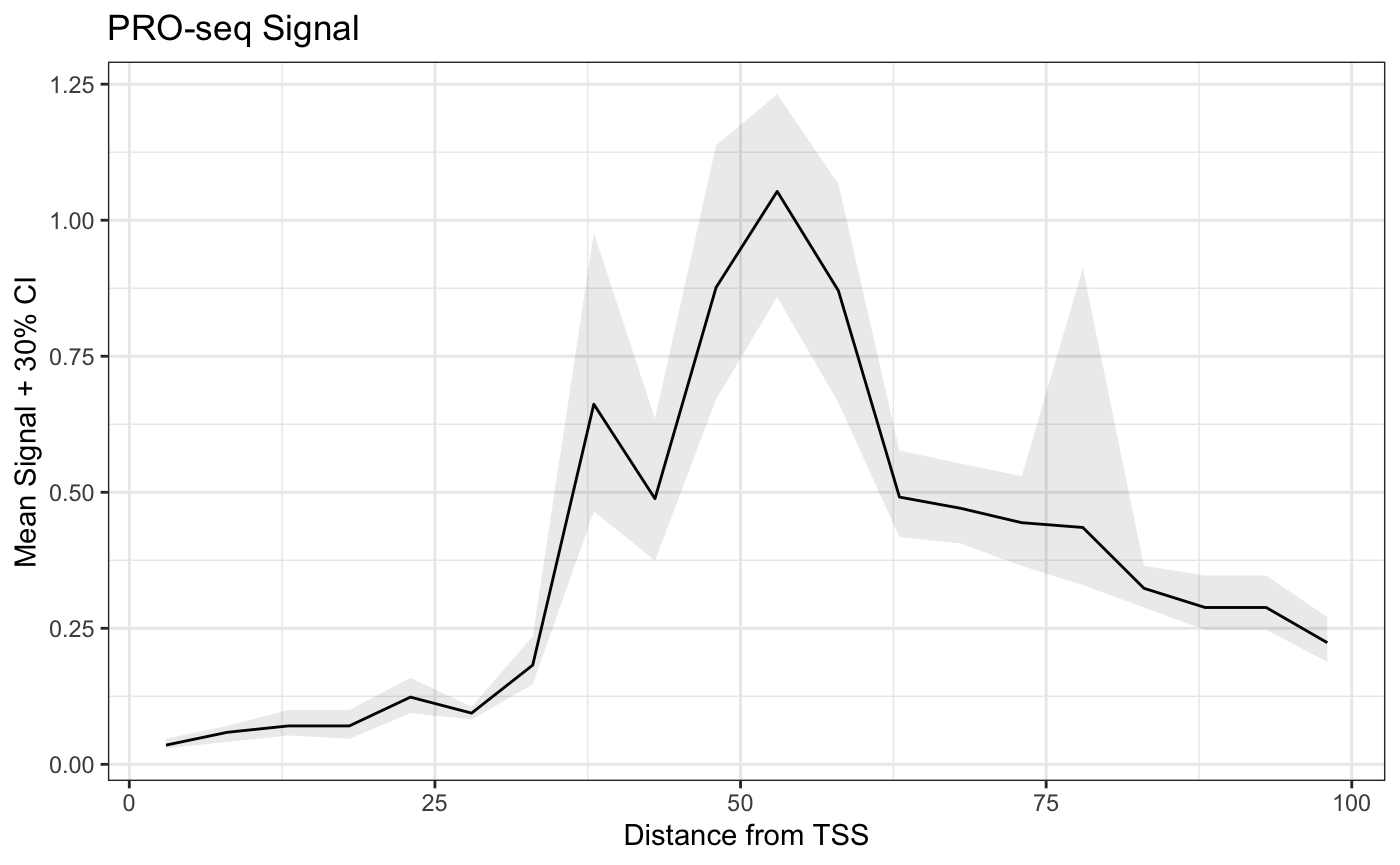
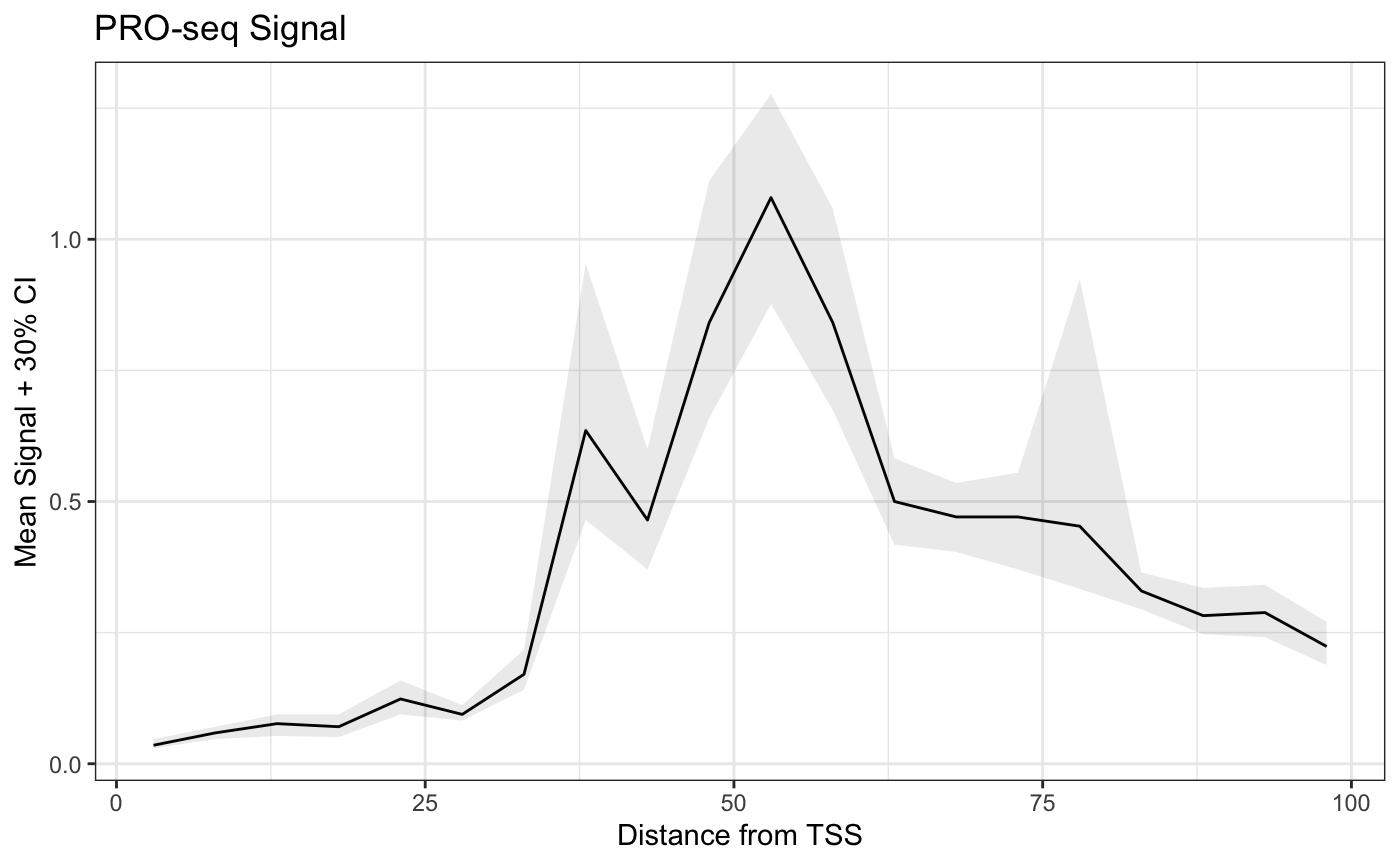
v0.99.23

diff --git a/reference/binNdimensions.html b/reference/binNdimensions.html
@@ -70,7 +70,7 @@ summarize the datapoints that fall into any of these n-dimensional bins." />
       </button>
       <span class="navbar-brand">
         <a class="navbar-link" href="../index.html">BRGenomics</a>
-        <span class="version label label-default" data-toggle="tooltip" data-placement="bottom" title="Released version">0.99.22</span>
+        <span class="version label label-default" data-toggle="tooltip" data-placement="bottom" title="Released version">0.99.23</span>
       </span>
     </div>
 
@@ -126,7 +126,12 @@ summarize the datapoints that fall into any of these n-dimensional bins." />
 summarize the datapoints that fall into any of these n-dimensional bins.</p>
     </div>
 
-    <pre class="usage"><span class='fu'>binNdimensions</span>(<span class='no'>dims.df</span>, <span class='kw'>nbins</span> <span class='kw'>=</span> <span class='fl'>10</span>, <span class='kw'>ncores</span> <span class='kw'>=</span> <span class='fu'>detectCores</span>())
+    <pre class="usage"><span class='fu'>binNdimensions</span>(
+  <span class='no'>dims.df</span>,
+  <span class='kw'>nbins</span> <span class='kw'>=</span> <span class='fl'>10</span>,
+  <span class='kw'>use_bin_numbers</span> <span class='kw'>=</span> <span class='fl'>TRUE</span>,
+  <span class='kw'>ncores</span> <span class='kw'>=</span> <span class='fu'>detectCores</span>()
+)
 
 <span class='fu'>aggregateByNdimensionalBins</span>(
   <span class='no'>x</span>,
@@ -137,10 +142,16 @@ summarize the datapoints that fall into any of these n-dimensional bins.</p>
   <span class='kw'>ignore.na</span> <span class='kw'>=</span> <span class='fl'>TRUE</span>,
   <span class='kw'>drop</span> <span class='kw'>=</span> <span class='fl'>FALSE</span>,
   <span class='kw'>empty</span> <span class='kw'>=</span> <span class='fl'>NA</span>,
+  <span class='kw'>use_bin_numbers</span> <span class='kw'>=</span> <span class='fl'>TRUE</span>,
   <span class='kw'>ncores</span> <span class='kw'>=</span> <span class='fu'>detectCores</span>()
 )
 
-<span class='fu'>densityInNdimensionalBins</span>(<span class='no'>dims.df</span>, <span class='kw'>nbins</span> <span class='kw'>=</span> <span class='fl'>10</span>, <span class='kw'>ncores</span> <span class='kw'>=</span> <span class='fu'>detectCores</span>())</pre>
+<span class='fu'>densityInNdimensionalBins</span>(
+  <span class='no'>dims.df</span>,
+  <span class='kw'>nbins</span> <span class='kw'>=</span> <span class='fl'>10</span>,
+  <span class='kw'>use_bin_numbers</span> <span class='kw'>=</span> <span class='fl'>TRUE</span>,
+  <span class='kw'>ncores</span> <span class='kw'>=</span> <span class='fu'>detectCores</span>()
+)</pre>
 
     <h2 class="hasAnchor" id="arguments"><a class="anchor" href="#arguments"></a>Arguments</h2>
     <table class="ref-arguments">
@@ -155,6 +166,14 @@ for which bins will be generated.</p></td>
       <td><p>Either a number giving the number of bins to use for all
 dimensions (default = 10), or a vector containing the number of bins to use
 for each dimension of input data given.</p></td>
+    </tr>
+    <tr>
+      <th>use_bin_numbers</th>
+      <td><p>A logical indicating if ordinal bin numbers should be
+returned (<code>TRUE</code>), or if in place of the bin number, the center value
+of that bin should be returned. For instance, if the first bin encompasses
+data from 0 to 4, with <code>use_bin_numbers = TRUE</code>, a 1 is returned, but
+when <code>FALSE</code>, 2 is returned.</p></td>
     </tr>
     <tr>
       <th>ncores</th>
@@ -253,7 +272,7 @@ if <code>FUN = sum</code>), the empty value should be <code>0</code>.</p></td>
 #&gt; 3             1             1              1
 #&gt; 4             1             1              3
 #&gt; 5             1             1              1
-#&gt; 6             5             3              3</div><div class='input'>
+#&gt; 6             5             4              3</div><div class='input'>
 <span class='co'>#--------------------------------------------------#</span>
 <span class='co'># get number of genes in each bin</span>
 <span class='co'>#--------------------------------------------------#</span>
@@ -262,7 +281,7 @@ if <code>FUN = sum</code>), the empty value should be <code>0</code>.</p></td>
                                         <span class='kw'>ncores</span> <span class='kw'>=</span> <span class='fl'>1</span>)
 
 <span class='no'>bin_counts</span>[<span class='fl'>1</span>:<span class='fl'>6</span>, ]</div><div class='output co'>#&gt;   bin.counts_pr bin.counts_gb bin.counts_cps value
-#&gt; 1             1             1              1   131
+#&gt; 1             1             1              1   128
 #&gt; 2             2             1              1     2
 #&gt; 3             3             1              1     0
 #&gt; 4             4             1              1     0
@@ -276,16 +295,16 @@ if <code>FUN = sum</code>), the empty value should be <code>0</code>.</p></td>
                                          <span class='kw'>nbins</span> <span class='kw'>=</span> <span class='fl'>20</span>, <span class='kw'>ncores</span> <span class='kw'>=</span> <span class='fl'>1</span>)
 
 <span class='no'>bin2d_cps</span>[<span class='fl'>1</span>:<span class='fl'>6</span>, ]</div><div class='output co'>#&gt;   bin.counts_pr bin.counts_gb    value
-#&gt; 1             1             1 27.72258
+#&gt; 1             1             1 27.70395
 #&gt; 2             2             1  0.00000
 #&gt; 3             3             1       NA
 #&gt; 4             4             1       NA
 #&gt; 5             5             1       NA
 #&gt; 6             9             1       NA</div><div class='input'>
 <span class='fu'><a href='https://rdrr.io/r/base/subset.html'>subset</a></span>(<span class='no'>bin2d_cps</span>, <span class='fu'><a href='https://rdrr.io/r/base/is.finite.html'>is.finite</a></span>(<span class='no'>value</span>))[<span class='fl'>1</span>:<span class='fl'>6</span>, ]</div><div class='output co'>#&gt;    bin.counts_pr bin.counts_gb    value
-#&gt; 1              1             1 27.72258
+#&gt; 1              1             1 27.70395
 #&gt; 2              2             1  0.00000
-#&gt; 9              1             2 68.82609
+#&gt; 9              1             2 64.19231
 #&gt; 10             2             2 89.85714
 #&gt; 11             3             2 38.50000
 #&gt; 14             9             2 79.00000</div><div class='input'>
@@ -306,7 +325,7 @@ if <code>FUN = sum</code>), the empty value should be <code>0</code>.</p></td>
 <span class='fu'><a href='https://rdrr.io/r/base/subset.html'>subset</a></span>(<span class='no'>bin2d_cps_med</span>, <span class='fu'><a href='https://rdrr.io/r/base/is.finite.html'>is.finite</a></span>(<span class='no'>value</span>))[<span class='fl'>1</span>:<span class='fl'>6</span>, ]</div><div class='output co'>#&gt;    bin.counts_pr bin.counts_gb value
 #&gt; 1              1             1   3.0
 #&gt; 2              2             1   0.0
-#&gt; 9              1             2  69.0
+#&gt; 9              1             2  67.5
 #&gt; 10             2             2  60.0
 #&gt; 11             3             2  38.5
 #&gt; 14             9             2  79.0</div></pre>

diff --git a/articles/BRGenomicsOverview.html b/articles/BRGenomicsOverview.html
@@ -31,7 +31,7 @@
       </button>
       <span class="navbar-brand">
         <a class="navbar-link" href="../index.html">BRGenomics</a>
-        <span class="version label label-default" data-toggle="tooltip" data-placement="bottom" title="Released version">0.99.22</span>
+        <span class="version label label-default" data-toggle="tooltip" data-placement="bottom" title="Released version">0.99.23</span>
       </span>
     </div>
 
@@ -1073,11 +1073,11 @@
 <a class="sourceLine" id="cb132-3" data-line-number="3"><span class="kw"><a href="https://rdrr.io/r/utils/head.html">head</a></span>(bootmeans.df)</a></code></pre></div>
 <pre><code>##    x       mean      lower      upper sample.name
 ## 1  3 0.03529412 0.02941176 0.04705882      PROseq
-## 2  8 0.05882353 0.04117647 0.07058824      PROseq
-## 3 13 0.07058824 0.05294118 0.10000000      PROseq
-## 4 18 0.07058824 0.04705882 0.10000000      PROseq
+## 2  8 0.05882353 0.04705882 0.07058824      PROseq
+## 3 13 0.07647059 0.05294118 0.09411765      PROseq
+## 4 18 0.07058824 0.05088235 0.09411765      PROseq
 ## 5 23 0.12352941 0.09411765 0.15882353      PROseq
-## 6 28 0.09411765 0.08235294 0.10588235      PROseq</code></pre>
+## 6 28 0.09411765 0.08235294 0.11176471      PROseq</code></pre>
 <p>A dataframe is returned for plotting, and notice how the x-values have been automatically adjusted to be the center of the bins.</p>
 <p>Below, we show how to plot the confidence bands using base R plotting, as well as <code>ggplot2</code>.</p>
 <div class="sourceCode" id="cb134"><pre class="sourceCode r"><code class="sourceCode r"><a class="sourceLine" id="cb134-1" data-line-number="1"><span class="kw"><a href="https://rdrr.io/r/graphics/plot.html">plot</a></span>(mean <span class="op">~</span><span class="st"> </span>x, <span class="dt">data =</span> bootmeans.df, <span class="dt">type =</span> <span class="st">"l"</span>, </a>
@@ -1115,7 +1115,7 @@
 ## 3 13 0.01764706 0.011764706 0.02352941         ps1
 ## 4 18 0.04117647 0.023529412 0.04705882         ps1
 ## 5 23 0.02941176 0.017647059 0.04705882         ps1
-## 6 28 0.02941176 0.023529412 0.03529412         ps1</code></pre>
+## 6 28 0.02941176 0.023529412 0.04117647         ps1</code></pre>
 <div class="sourceCode" id="cb138"><pre class="sourceCode r"><code class="sourceCode r"><a class="sourceLine" id="cb138-1" data-line-number="1"><span class="kw"><a href="https://rdrr.io/r/base/library.html">require</a></span>(ggplot2)</a>
 <a class="sourceLine" id="cb138-2" data-line-number="2"><span class="kw"><a href="https://ggplot2.tidyverse.org/reference/ggplot.html">ggplot</a></span>(bm_list.df, <span class="kw"><a href="https://ggplot2.tidyverse.org/reference/aes.html">aes</a></span>(x, mean, <span class="dt">color =</span> sample.name)) <span class="op">+</span><span class="st"> </span></a>
 <a class="sourceLine" id="cb138-3" data-line-number="3"><span class="st">  </span><span class="kw"><a href="https://ggplot2.tidyverse.org/reference/geom_path.html">geom_line</a></span>() <span class="op">+</span><span class="st"> </span></a>
@@ -1704,7 +1704,7 @@
 ## 
 ## other attached packages:
 ##  [1] Biostrings_2.55.4    XVector_0.27.0       ggplot2_3.3.0       
-##  [4] BRGenomics_0.99.22   rtracklayer_1.47.0   GenomicRanges_1.39.2
+##  [4] BRGenomics_0.99.23   rtracklayer_1.47.0   GenomicRanges_1.39.2
 ##  [7] GenomeInfoDb_1.23.13 IRanges_2.21.3       S4Vectors_0.25.12   
 ## [10] BiocGenerics_0.33.0  BiocStyle_2.15.6    
 ## 

diff --git a/news/index.html b/news/index.html
@@ -67,7 +67,7 @@
       </button>
       <span class="navbar-brand">
         <a class="navbar-link" href="../index.html">BRGenomics</a>
-        <span class="version label label-default" data-toggle="tooltip" data-placement="bottom" title="Released version">0.99.22</span>
+        <span class="version label label-default" data-toggle="tooltip" data-placement="bottom" title="Released version">0.99.23</span>
       </span>
     </div>
 
@@ -117,9 +117,9 @@
       
     </div>
 
-    <div id="brgenomics-0-99-22" class="section level2">
+    <div id="brgenomics-0-99-23" class="section level2">
 <h2 class="hasAnchor">
-<a href="#brgenomics-0-99-22" class="anchor"></a>BRGenomics 0.99.22</h2>
+<a href="#brgenomics-0-99-23" class="anchor"></a>BRGenomics 0.99.23</h2>
 <ul>
 <li>Added support for non-basepair-resolution GRanges throughout, via the <code>expand_ranges</code> argument
 <ul>
@@ -135,10 +135,11 @@
 </ul>
 </li>
 <li>Add a <code><a href="../reference/mergeReplicates.html">mergeReplicates()</a></code> function</li>
-<li>Rewrite of <code>makeGRangesBRG</code> that significantly improves performance for sparser datasets (the datasets for which using the function makes the most sense)</li>
+<li>Rewrite of <code><a href="../reference/makeGRangesBRG.html">makeGRangesBRG()</a></code> that significantly improves performance for sparser datasets (the datasets for which using the function makes the most sense)</li>
 <li>
 <code><a href="../reference/subsampleGRanges.html">subsampleGRanges()</a></code> no longer returns a basepair-resolution GRanges by default</li>
 <li>When <code>field=NULL</code>, <code><a href="../reference/applyNFsGRanges.html">applyNFsGRanges()</a></code> no longer returns a basepair-resolution GRanges by default</li>
+<li>Add <code>use_bin_numbers</code> option to n-dimension binning functions; setting to false allows returning of bin values (the bin center) instead of the ordinal bin numbers (indexes)</li>
 <li>Quietly adding support for <code>GRangesList</code> objects (not fully tested)</li>
 </ul>
 </div>
@@ -371,7 +372,7 @@
     <div id="tocnav">
       <h2>Contents</h2>
       <ul class="nav nav-pills nav-stacked">
-        <li><a href="#brgenomics-0-99-22">0.99.22</a></li>
+        <li><a href="#brgenomics-0-99-23">0.99.23</a></li>
         <li><a href="#brgenomics-0-99-15">0.99.15</a></li>
         <li><a href="#brgenomics-0-99-10">0.99.10</a></li>
         <li><a href="#brgenomics-0-99-0-bioconductor-submission">0.99.0</a></li>

diff --git a/reference/tidyChromosomes.html b/reference/tidyChromosomes.html
@@ -70,7 +70,7 @@ chromosomes from any GRanges object." />
       </button>
       <span class="navbar-brand">
         <a class="navbar-link" href="../index.html">BRGenomics</a>
-        <span class="version label label-default" data-toggle="tooltip" data-placement="bottom" title="Released version">0.99.22</span>
+        <span class="version label label-default" data-toggle="tooltip" data-placement="bottom" title="Released version">0.99.23</span>
       </span>
     </div>
 
@@ -131,7 +131,8 @@ chromosomes from any GRanges object.</p>
   <span class='kw'>keep.X</span> <span class='kw'>=</span> <span class='fl'>TRUE</span>,
   <span class='kw'>keep.Y</span> <span class='kw'>=</span> <span class='fl'>TRUE</span>,
   <span class='kw'>keep.M</span> <span class='kw'>=</span> <span class='fl'>FALSE</span>,
-  <span class='kw'>keep.nonstandard</span> <span class='kw'>=</span> <span class='fl'>FALSE</span>
+  <span class='kw'>keep.nonstandard</span> <span class='kw'>=</span> <span class='fl'>FALSE</span>,
+  <span class='kw'>genome</span> <span class='kw'>=</span> <span class='kw'>NULL</span>
 )</pre>
 
     <h2 class="hasAnchor" id="arguments"><a class="anchor" href="#arguments"></a>Arguments</h2>
@@ -149,6 +150,11 @@ typically have a standard genome associated with it, e.g. <code>genome(gr)
       <td><p>Logicals indicating which
 non-autosomes should be kept. By default, sex chromosomes are kept, but
 mitochondrial and non-standard chromosomes are removed.</p></td>
+    </tr>
+    <tr>
+      <th>genome</th>
+      <td><p>An optional string that, if supplied, will be used to set the
+genome of <code>gr</code>.</p></td>
     </tr>
     </table>
 

diff --git a/reference/mergeReplicates.html b/reference/mergeReplicates.html
@@ -72,7 +72,7 @@ objects." />
       </button>
       <span class="navbar-brand">
         <a class="navbar-link" href="../index.html">BRGenomics</a>
-        <span class="version label label-default" data-toggle="tooltip" data-placement="bottom" title="Released version">0.99.22</span>
+        <span class="version label label-default" data-toggle="tooltip" data-placement="bottom" title="Released version">0.99.23</span>
       </span>
     </div>
 
@@ -163,13 +163,14 @@ naming scheme.</p></td>
       <th>ncores</th>
       <td><p>The number of cores to use. This function will try to maximize
 the use of the <code>ncores</code> given, but care should be taken as
-<code>mergeGRangesData</code> can be memory intensive.</p></td>
+<code>mergeGRangesData</code> can be memory intensive. Excessive memory usage can
+cause dramatic reductions in performance.</p></td>
     </tr>
     </table>
 
     <h2 class="hasAnchor" id="value"><a class="anchor" href="#value"></a>Value</h2>
 
-    <p>A list of GRanges objects (one for each replicate).</p>
+    <p>A list of GRanges objects.</p>
 
     <h2 class="hasAnchor" id="examples"><a class="anchor" href="#examples"></a>Examples</h2>
     <pre class="examples"><div class='input'><span class='fu'><a href='https://rdrr.io/r/utils/data.html'>data</a></span>(<span class='st'>"PROseq"</span>)

diff --git a/reference/import_bam.html b/reference/import_bam.html
@@ -70,7 +70,7 @@ processing options. It is highly recommend to index the BAM file first." />
       </button>
       <span class="navbar-brand">
         <a class="navbar-link" href="../index.html">BRGenomics</a>
-        <span class="version label label-default" data-toggle="tooltip" data-placement="bottom" title="Released version">0.99.22</span>
+        <span class="version label label-default" data-toggle="tooltip" data-placement="bottom" title="Released version">0.99.23</span>
       </span>
     </div>
 

diff --git a/reference/txs_dm6_chr4.html b/reference/txs_dm6_chr4.html
@@ -73,7 +73,7 @@ the TxDb package using GenomicFeatures version 1.35.11 on 2019-12-19." />
       </button>
       <span class="navbar-brand">
         <a class="navbar-link" href="../index.html">BRGenomics</a>
-        <span class="version label label-default" data-toggle="tooltip" data-placement="bottom" title="Released version">0.99.22</span>
+        <span class="version label label-default" data-toggle="tooltip" data-placement="bottom" title="Released version">0.99.23</span>
       </span>
     </div>
 

diff --git a/reference/getCountsByRegions.html b/reference/getCountsByRegions.html
@@ -73,7 +73,7 @@ overlapping each region, while expand_regions = TRUE will calculate
       </button>
       <span class="navbar-brand">
         <a class="navbar-link" href="../index.html">BRGenomics</a>
-        <span class="version label label-default" data-toggle="tooltip" data-placement="bottom" title="Released version">0.99.22</span>
+        <span class="version label label-default" data-toggle="tooltip" data-placement="bottom" title="Released version">0.99.23</span>
       </span>
     </div>
 

diff --git a/reference/BRGenomics-package.html b/reference/BRGenomics-package.html
@@ -74,7 +74,7 @@ For interactive documentation with code examples, see the online
       </button>
       <span class="navbar-brand">
         <a class="navbar-link" href="../index.html">BRGenomics</a>
-        <span class="version label label-default" data-toggle="tooltip" data-placement="bottom" title="Released version">0.99.22</span>
+        <span class="version label label-default" data-toggle="tooltip" data-placement="bottom" title="Released version">0.99.23</span>
       </span>
     </div>
 

diff --git a/reference/genebodies.html b/reference/genebodies.html
@@ -70,7 +70,7 @@ start and end sites of regions of interest (usually genes)." />
       </button>
       <span class="navbar-brand">
         <a class="navbar-link" href="../index.html">BRGenomics</a>
-        <span class="version label label-default" data-toggle="tooltip" data-placement="bottom" title="Released version">0.99.22</span>
+        <span class="version label label-default" data-toggle="tooltip" data-placement="bottom" title="Released version">0.99.23</span>
       </span>
     </div>
 

diff --git a/reference/getStrandedCoverage.html b/reference/getStrandedCoverage.html
@@ -70,7 +70,7 @@ Function also works for non-strand-specific data." />
       </button>
       <span class="navbar-brand">
         <a class="navbar-link" href="../index.html">BRGenomics</a>
-        <span class="version label label-default" data-toggle="tooltip" data-placement="bottom" title="Released version">0.99.22</span>
+        <span class="version label label-default" data-toggle="tooltip" data-placement="bottom" title="Released version">0.99.23</span>
       </span>
     </div>
 

diff --git a/reference/getDESeqResults.html b/reference/getDESeqResults.html
@@ -75,7 +75,7 @@ being compared, and not for all samples present." />
       </button>
       <span class="navbar-brand">
         <a class="navbar-link" href="../index.html">BRGenomics</a>
-        <span class="version label label-default" data-toggle="tooltip" data-placement="bottom" title="Released version">0.99.22</span>
+        <span class="version label label-default" data-toggle="tooltip" data-placement="bottom" title="Released version">0.99.23</span>
       </span>
     </div>
 
